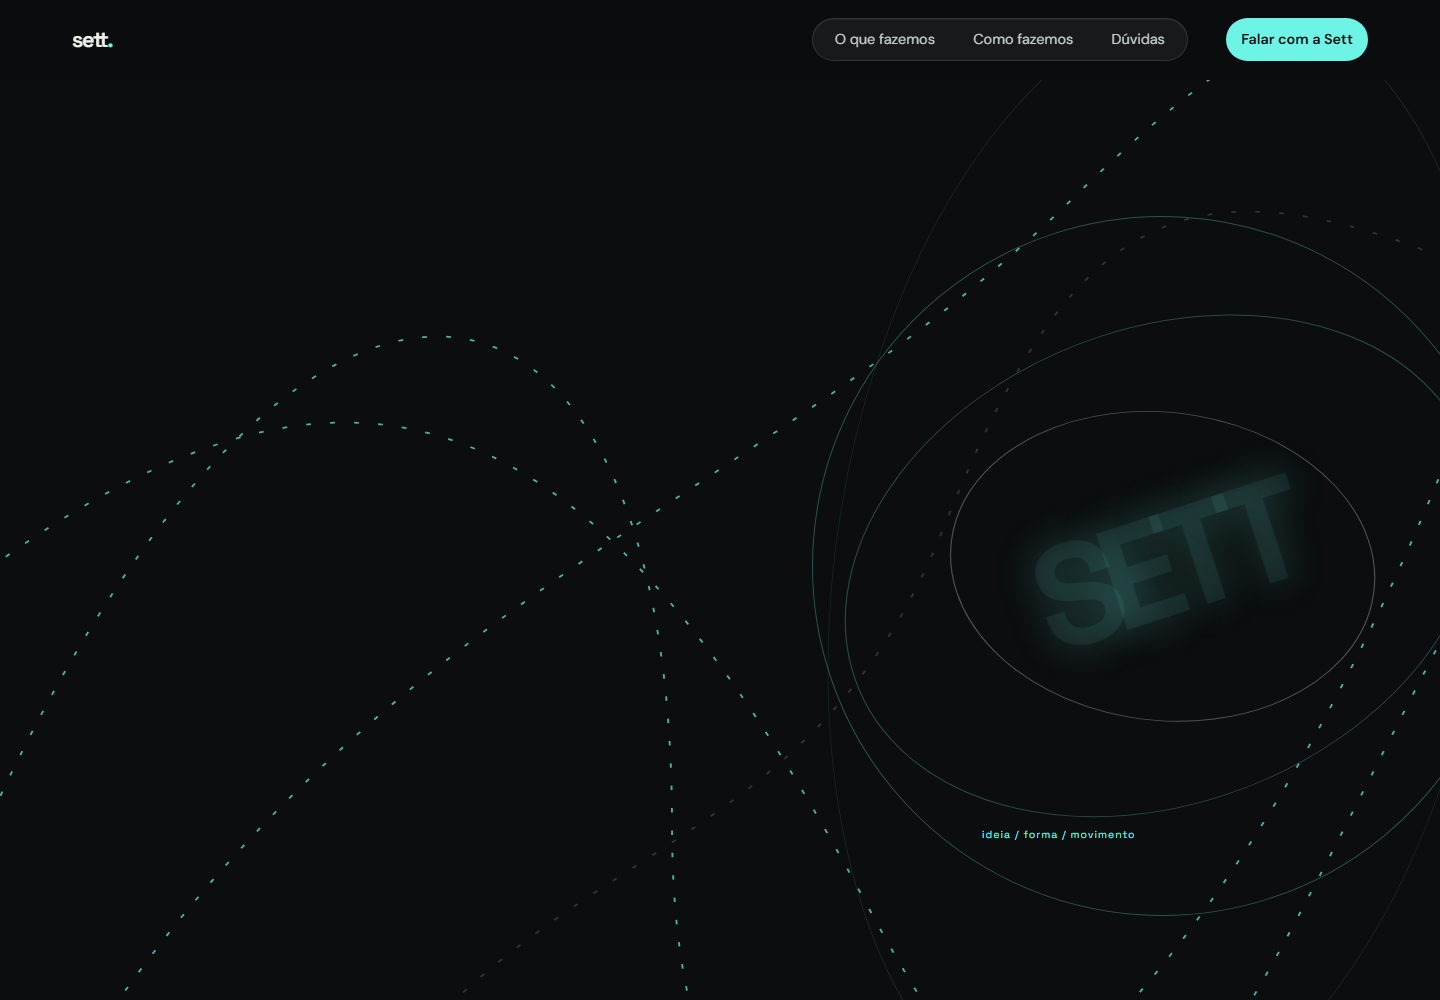
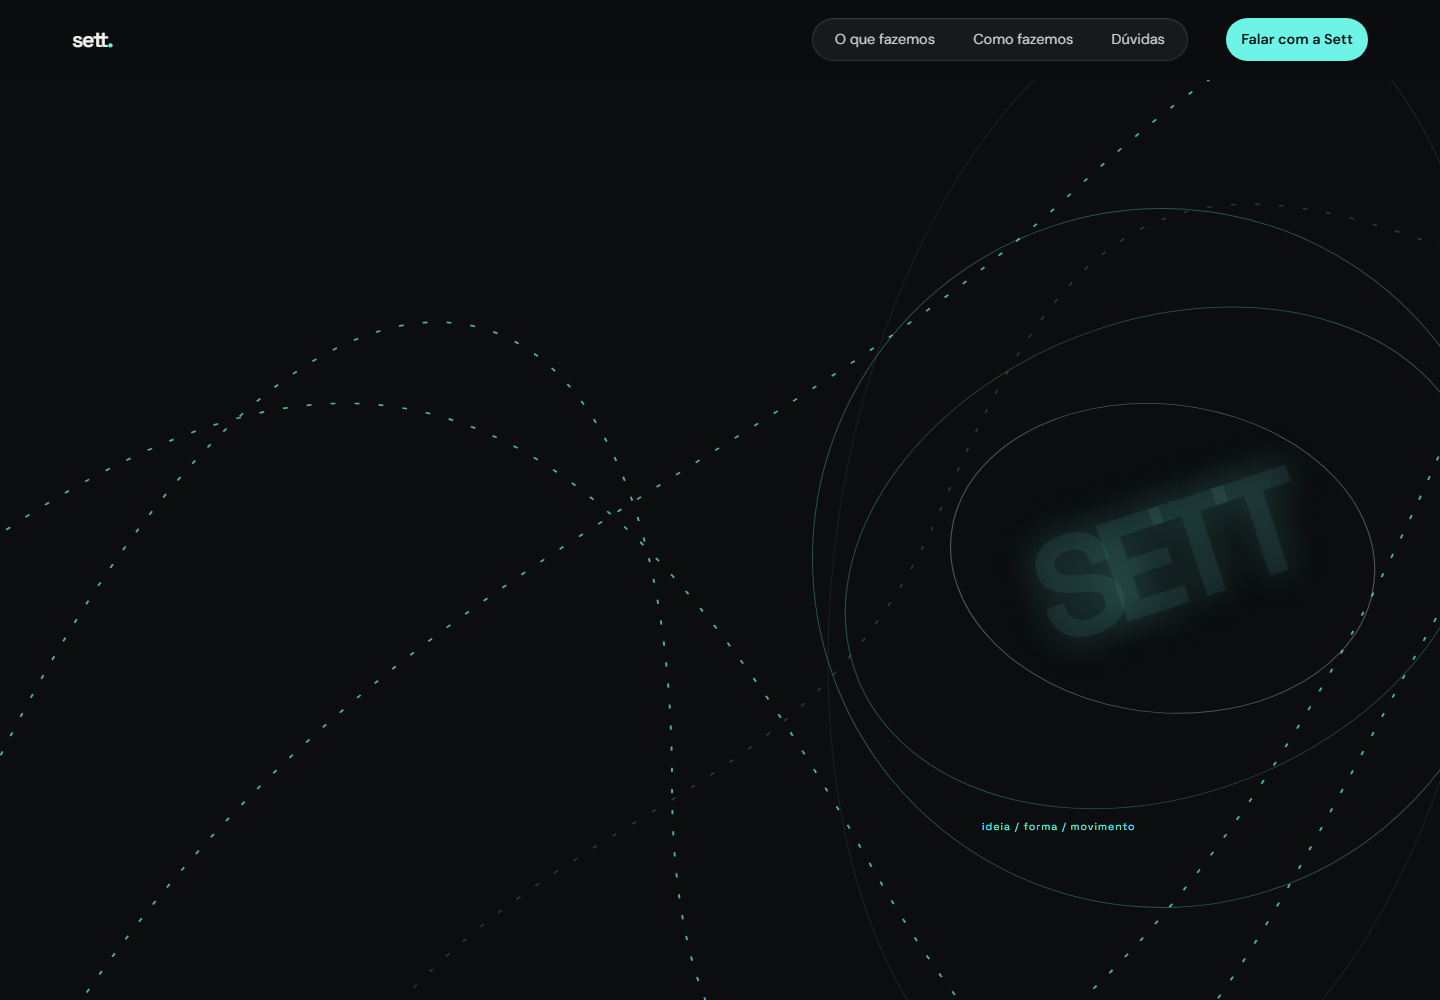
Add files via upload

Changed region(s): [[0.6875, 0.806, 0.7812, 0.837], [0.5938, 0.713, 0.625, 0.744], [0.5625, 0.651, 0.5938, 0.682]]

diff --git a/styles.css b/styles.css
@@ -1,3 +1,3 @@
 @import url('https://fonts.googleapis.com/css2?family=DM+Sans:wght@400;500;600&family=Space+Grotesk:wght@400;500;600;700&display=swap');
-:root{--ink:#0b0d0e;--paper:#f0f2ed;--cyan:#6ef4e7;--deep:#162d38;--muted:#899391;--line:rgba(240,242,237,.17);--display:'Space Grotesk',sans-serif;--body:'DM Sans',sans-serif}*{box-sizing:border-box}html{scroll-behavior:smooth}body{margin:0;background:var(--ink);color:var(--paper);font-family:var(--body);font-size:16px;line-height:1.5}a{color:inherit;text-decoration:none}button{font:inherit}::selection{background:var(--cyan);color:var(--ink)}.site-header{height:80px;padding:0 5vw;display:flex;align-items:center;justify-content:space-between;border-bottom:1px solid transparent;position:sticky;top:0;z-index:5;background:rgba(11,13,14,.62);backdrop-filter:blur(12px);transition:background .35s,border-color .35s,box-shadow .35s}.site-header.is-scrolled{background:rgba(11,13,14,.9);border-color:var(--line);box-shadow:0 12px 35px rgba(0,0,0,.22)}.brand{display:flex;align-items:center;gap:10px;font:600 1.35rem var(--display);letter-spacing:-.06em}.brand-mark{width:28px;height:28px;border:1px solid var(--cyan);border-radius:50%;display:grid;place-items:center;color:var(--cyan);font-size:.8rem;letter-spacing:0}.brand-dot{color:var(--cyan)}.desktop-nav{display:flex;gap:2.4rem;margin-left:auto;margin-right:2.4rem;padding:10px 22px;border:1px solid rgba(240,242,237,.12);border-radius:999px;background:rgba(240,242,237,.06);color:#c7cfcb;font-size:.9rem;box-shadow:inset 0 1px rgba(255,255,255,.06);transition:background .35s,border-color .35s}.desktop-nav:hover{background:rgba(240,242,237,.1);border-color:rgba(110,244,231,.32)}.desktop-nav a,.site-footer a{transition:color .25s}.desktop-nav a:hover,.site-footer a:hover{color:var(--cyan)}.button{display:inline-flex;align-items:center;gap:1rem;background:var(--cyan);color:var(--ink);padding:15px 20px;border-radius:999px;font-weight:600;font-size:.9rem;transition:transform .25s,background .25s}.button:hover{transform:translateY(-3px);background:#b4fff5}.button span{font-size:1.2rem}.button-small{padding:11px 15px}.menu-toggle,.mobile-nav{display:none}.section-grid{display:grid;grid-template-columns:minmax(120px,20%) 1fr;gap:4vw;padding:clamp(100px,12vw,190px) 5vw;position:relative}.hero{min-height:calc(100vh - 80px);padding-top:clamp(90px,11vw,170px);overflow:hidden;display:block}.hero-copy{position:relative;z-index:1;max-width:780px}.eyebrow,.section-index{font:500 .72rem var(--display);letter-spacing:.08em;color:var(--cyan)}.hero-title{font:600 clamp(4.4rem,11vw,10rem) var(--display);line-height:.84;letter-spacing:-.1em;margin:34px 0 38px;max-width:900px}.hero-title em,.section-title em,.proof-panel em,.cta-title em{font-style:normal;color:var(--cyan)}.hero-lead{font-size:clamp(1.1rem,1.7vw,1.4rem);max-width:470px;color:#c4ceca;line-height:1.4}.hero-actions{display:flex;align-items:center;gap:2rem;margin-top:38px}.text-link{color:var(--paper);border-bottom:1px solid var(--cyan);padding-bottom:5px;font-size:.9rem;display:inline-flex;gap:1rem}.hero-orbit{position:absolute;right:-5vw;top:13%;width:min(50vw,700px);height:min(50vw,700px);border:1px solid rgba(110,244,231,.3);border-radius:50%;transform:rotate(-18deg)}.orbit-ring{position:absolute;border:1px solid rgba(110,244,231,.27);border-radius:50%;inset:10%;transform:rotate(37deg) skewX(-18deg)}.ring-two{inset:24%;transform:rotate(-25deg) skewY(18deg);border-color:rgba(240,242,237,.3)}.ring-three{inset:-12%;transform:rotate(80deg) skewX(30deg);border-color:rgba(110,244,231,.12)}.orbit-word{font:700 clamp(4rem,12vw,9rem) var(--display);letter-spacing:-.13em;position:absolute;inset:0;display:grid;place-items:center;color:rgba(110,244,231,.08);text-shadow:0 0 40px rgba(110,244,231,.25)}.orbit-label{position:absolute;bottom:17%;left:13%;font:.65rem var(--display);color:var(--cyan);letter-spacing:.1em;transform:rotate(18deg)}.hero-paths{position:absolute;inset:0;opacity:.7;pointer-events:none}.hero-paths svg{width:100%;height:100%}.hero-paths path{fill:none;stroke:var(--cyan);stroke-width:1.2;stroke-dasharray:3 12;animation:drift 18s linear infinite}.hero-paths .path-faint{stroke:#b5cbc7;opacity:.3;animation-direction:reverse;animation-duration:24s}.hero-foot{position:absolute;bottom:35px;left:5vw;right:5vw;display:flex;align-items:center;gap:1rem;font:500 .7rem var(--display);color:var(--muted)}.hero-foot .line{width:80px;height:1px;background:var(--cyan);margin-left:1rem}.hero-foot span:last-child{margin-left:auto}.trust{background:var(--paper);color:var(--ink)}.trust .section-index,.trust .section-text{color:#4e5b57}.section-title{font:600 clamp(2.8rem,6.5vw,6.5rem) var(--display);line-height:.94;letter-spacing:-.09em;margin:0}.section-title span{color:var(--cyan)}.trust .section-title span{color:#188f86}.section-text{max-width:490px;font-size:1.1rem;line-height:1.45;margin-top:36px}.trust-stamp{align-self:end;border:1px solid rgba(11,13,14,.3);padding:20px;display:flex;flex-direction:column;gap:25px;max-width:190px;font-size:.7rem}.trust-stamp strong{font:600 1.4rem/1 var(--display);letter-spacing:-.06em}.tension{padding-bottom:150px}.tension-quote{max-width:900px}.solution{display:flex;gap:2rem;margin-top:100px;padding-top:28px;border-top:1px solid var(--line);max-width:600px}.solution-number{color:var(--cyan);font-size:2rem}.solution h3{font:500 1.4rem var(--display);margin:0 0 10px}.solution p{color:#abb8b3;max-width:420px}.services{background:var(--deep)}.service-list{margin-top:80px;border-top:1px solid rgba(240,242,237,.28)}.service{display:grid;grid-template-columns:70px 1fr 1.2fr 30px;align-items:center;gap:20px;padding:26px 0;border-bottom:1px solid rgba(240,242,237,.28);transition:padding .3s,color .3s}.service:hover{padding-left:14px;color:var(--cyan)}.service-tag{font:500 .75rem var(--display);color:var(--cyan)}.service h3{font:500 clamp(1.7rem,3vw,3rem) var(--display);letter-spacing:-.07em;margin:0}.service p{color:#b0beb9;max-width:310px;margin:0;font-size:.95rem}.service-symbol{font-size:2rem;font-weight:300}.process-track{display:grid;grid-template-columns:repeat(3,1fr);gap:0;margin-top:90px;border-top:1px solid var(--line)}.process-step{padding:25px 25px 0 0;border-right:1px solid var(--line);min-height:190px}.process-step:not(:first-child){padding-left:25px}.process-step:last-child{border:0}.process-step span{color:var(--cyan);font:500 .8rem var(--display)}.process-step h3{font:500 2rem var(--display);letter-spacing:-.06em;margin:35px 0 10px}.process-step p{color:#aebbb7;max-width:230px;font-size:.92rem}.proof{background:var(--cyan);color:var(--ink)}.proof .section-index{color:var(--ink)}.proof-panel{max-width:800px}.proof-panel .eyebrow{color:var(--ink)}.proof-panel h2{font:600 clamp(3rem,7vw,7rem)/.9 var(--display);letter-spacing:-.1em;margin:30px 0}.proof-panel em{color:var(--ink);text-decoration:underline;text-decoration-thickness:2px;text-underline-offset:8px}.proof-panel p{max-width:480px}.proof-panel .text-link{color:var(--ink);border-color:var(--ink);margin-top:20px}.faq-list{margin-top:75px;border-top:1px solid var(--line);max-width:780px}.faq-list details{border-bottom:1px solid var(--line);padding:24px 0}.faq-list summary{cursor:pointer;list-style:none;font:500 1.2rem var(--display);display:flex;justify-content:space-between;gap:2rem}.faq-list summary::-webkit-details-marker{display:none}.faq-list summary span{color:var(--cyan);font-size:1.6rem;font-weight:300}.faq-list details[open] summary span{transform:rotate(45deg)}.faq-list p{max-width:550px;color:#afbbb7;margin:18px 0 0}.final-cta{background:var(--deep);min-height:75vh;overflow:hidden}.cta-noise{position:absolute;width:60vw;height:60vw;border:1px solid rgba(110,244,231,.2);border-radius:50%;right:-20vw;bottom:-30vw;box-shadow:0 0 0 50px rgba(110,244,231,.03),0 0 0 100px rgba(110,244,231,.03),0 0 0 150px rgba(110,244,231,.03)}.cta-title{font:600 clamp(4rem,10vw,10rem)/.85 var(--display);letter-spacing:-.11em;margin:0}.cta-text{font-size:1.1rem;color:#b9c5c1;margin:38px 0}.button-light{background:var(--paper)}.email-note{font-size:.68rem;color:#84958f;margin-top:22px}.site-footer{display:grid;grid-template-columns:2fr 2fr 1fr 1fr;gap:2rem;padding:45px 5vw;color:#aebbb7;border-top:1px solid var(--line);font-size:.85rem}.site-footer .brand{color:var(--paper);align-self:start}.site-footer div{display:flex;flex-direction:column;gap:8px}.site-footer small{align-self:end;color:#71807c}.reveal{opacity:0;transform:translateY(24px);transition:opacity .8s ease,transform .8s cubic-bezier(.2,.8,.2,1)}.reveal.is-visible{opacity:1;transform:none}@keyframes drift{to{stroke-dashoffset:-180}}.sr-only{position:absolute;width:1px;height:1px;padding:0;margin:-1px;overflow:hidden;clip:rect(0,0,0,0);white-space:nowrap;border:0}:focus-visible{outline:2px solid var(--cyan);outline-offset:5px}@media(max-width:800px){.site-header{height:68px;padding:0 5vw}.desktop-nav,.site-header>.button{display:none}.menu-toggle{display:grid;gap:4px;background:none;border:0;padding:8px;cursor:pointer}.menu-toggle span:not(.sr-only){width:24px;height:1px;background:var(--paper);display:block}.mobile-nav{position:absolute;top:68px;left:0;right:0;background:var(--ink);padding:22px 5vw;display:none;flex-direction:column;gap:20px;border-bottom:1px solid var(--line)}.mobile-nav.is-open{display:flex}.section-grid{grid-template-columns:1fr;gap:32px;padding:90px 5vw}.section-index{order:-1}.hero{min-height:850px;padding-top:100px}.hero-title{font-size:clamp(4rem,18vw,7rem);margin-top:28px}.hero-orbit{right:-35vw;top:41%;width:100vw;height:100vw}.hero-foot{bottom:25px;gap:.6rem;font-size:.6rem}.hero-foot .line{width:35px;margin-left:.4rem}.hero-foot span:last-child{display:none}.trust-stamp{margin-top:25px}.solution{margin-top:65px}.service-list{margin-top:55px}.service{grid-template-columns:35px 1fr 25px;gap:10px}.service p{grid-column:2/4}.process-track{grid-template-columns:1fr;margin-top:55px}.process-step,.process-step:not(:first-child){border-right:0;border-bottom:1px solid var(--line);padding:22px 0;min-height:0}.process-step h3{margin:18px 0 6px}.proof-panel h2{font-size:clamp(3.5rem,16vw,6rem)}.final-cta{min-height:680px}.site-footer{grid-template-columns:1fr 1fr;padding:38px 5vw}.site-footer small{grid-column:1/-1;margin-top:25px}}
+:root{--ink:#0b0d0e;--paper:#f0f2ed;--cyan:#6ef4e7;--deep:#162d38;--muted:#899391;--line:rgba(240,242,237,.17);--display:'Space Grotesk',sans-serif;--body:'DM Sans',sans-serif}*{box-sizing:border-box}html{scroll-behavior:smooth}body{margin:0;background:var(--ink);color:var(--paper);font-family:var(--body);font-size:16px;line-height:1.5}a{color:inherit;text-decoration:none}button{font:inherit}::selection{background:var(--cyan);color:var(--ink)}.site-header{height:80px;padding:0 5vw;display:flex;align-items:center;justify-content:space-between;border-bottom:1px solid transparent;position:sticky;top:0;z-index:5;background:rgba(11,13,14,.62);backdrop-filter:blur(12px);transition:background .35s,border-color .35s,box-shadow .35s}.site-header.is-scrolled{background:rgba(11,13,14,.9);border-color:var(--line);box-shadow:0 12px 35px rgba(0,0,0,.22)}.brand{display:flex;align-items:center;gap:10px;font:600 1.35rem var(--display);letter-spacing:-.06em}.brand-mark{width:28px;height:28px;border:1px solid var(--cyan);border-radius:50%;display:grid;place-items:center;color:var(--cyan);font-size:.8rem;letter-spacing:0}.brand-dot{color:var(--cyan)}.desktop-nav{display:flex;gap:2.4rem;margin-left:auto;margin-right:2.4rem;padding:10px 22px;border:1px solid rgba(240,242,237,.12);border-radius:999px;background:rgba(240,242,237,.06);color:#c7cfcb;font-size:.9rem;box-shadow:inset 0 1px rgba(255,255,255,.06);transition:background .35s,border-color .35s}.desktop-nav:hover{background:rgba(240,242,237,.1);border-color:rgba(110,244,231,.32)}.desktop-nav a,.site-footer a{transition:color .25s}.desktop-nav a:hover,.site-footer a:hover{color:var(--cyan)}.button{display:inline-flex;align-items:center;gap:1rem;background:var(--cyan);color:var(--ink);padding:15px 20px;border-radius:999px;font-weight:600;font-size:.9rem;transition:transform .25s,background .25s}.button:hover{transform:translateY(-3px);background:#b4fff5}.button span{font-size:1.2rem}.button-small{padding:11px 15px}.menu-toggle,.mobile-nav{display:none}.section-grid{display:grid;grid-template-columns:minmax(120px,20%) 1fr;gap:4vw;padding:clamp(100px,12vw,190px) 5vw;position:relative}.hero{min-height:calc(100vh - 80px);padding-top:clamp(52px,7vw,100px);overflow:hidden;display:block}.hero-copy{position:relative;z-index:1;max-width:780px}.eyebrow,.section-index{font:500 .72rem var(--display);letter-spacing:.08em;color:var(--cyan)}.hero-title{font:600 clamp(4.4rem,11vw,10rem) var(--display);line-height:.84;letter-spacing:-.1em;margin:34px 0 38px;max-width:900px}.hero-title em,.section-title em,.proof-panel em,.cta-title em{font-style:normal;color:var(--cyan)}.hero-lead{font-size:clamp(1.1rem,1.7vw,1.4rem);max-width:470px;color:#c4ceca;line-height:1.4}.hero-actions{display:flex;align-items:center;gap:2rem;margin-top:38px}.text-link{color:var(--paper);border-bottom:1px solid var(--cyan);padding-bottom:5px;font-size:.9rem;display:inline-flex;gap:1rem}.hero-orbit{position:absolute;right:-5vw;top:13%;width:min(50vw,700px);height:min(50vw,700px);border:1px solid rgba(110,244,231,.3);border-radius:50%;transform:rotate(-18deg)}.orbit-ring{position:absolute;border:1px solid rgba(110,244,231,.27);border-radius:50%;inset:10%;transform:rotate(37deg) skewX(-18deg)}.ring-two{inset:24%;transform:rotate(-25deg) skewY(18deg);border-color:rgba(240,242,237,.3)}.ring-three{inset:-12%;transform:rotate(80deg) skewX(30deg);border-color:rgba(110,244,231,.12)}.orbit-word{font:700 clamp(4rem,12vw,9rem) var(--display);letter-spacing:-.13em;position:absolute;inset:0;display:grid;place-items:center;color:rgba(110,244,231,.08);text-shadow:0 0 40px rgba(110,244,231,.25)}.orbit-label{position:absolute;bottom:17%;left:13%;font:.65rem var(--display);color:var(--cyan);letter-spacing:.1em;transform:rotate(18deg)}.hero-paths{position:absolute;inset:0;opacity:.7;pointer-events:none}.hero-paths svg{width:100%;height:100%}.hero-paths path{fill:none;stroke:var(--cyan);stroke-width:1.2;stroke-dasharray:3 12;animation:drift 18s linear infinite}.hero-paths .path-faint{stroke:#b5cbc7;opacity:.3;animation-direction:reverse;animation-duration:24s}.hero-foot{position:absolute;bottom:35px;left:5vw;right:5vw;display:flex;align-items:center;gap:1rem;font:500 .7rem var(--display);color:var(--muted)}.hero-foot .line{width:80px;height:1px;background:var(--cyan);margin-left:1rem}.hero-foot span:last-child{margin-left:auto}.trust{background:var(--paper);color:var(--ink)}.trust .section-index,.trust .section-text{color:#4e5b57}.section-title{font:600 clamp(2.8rem,6.5vw,6.5rem) var(--display);line-height:.94;letter-spacing:-.09em;margin:0}.section-title span{color:var(--cyan)}.trust .section-title span{color:#188f86}.section-text{max-width:490px;font-size:1.1rem;line-height:1.45;margin-top:36px}.trust-stamp{align-self:end;border:1px solid rgba(11,13,14,.3);padding:20px;display:flex;flex-direction:column;gap:25px;max-width:190px;font-size:.7rem}.trust-stamp strong{font:600 1.4rem/1 var(--display);letter-spacing:-.06em}.tension{padding-bottom:150px}.tension-quote{max-width:900px}.solution{display:flex;gap:2rem;margin-top:100px;padding-top:28px;border-top:1px solid var(--line);max-width:600px}.solution-number{color:var(--cyan);font-size:2rem}.solution h3{font:500 1.4rem var(--display);margin:0 0 10px}.solution p{color:#abb8b3;max-width:420px}.services{background:var(--deep)}.service-list{margin-top:80px;border-top:1px solid rgba(240,242,237,.28)}.service{display:grid;grid-template-columns:70px 1fr 1.2fr 30px;align-items:center;gap:20px;padding:26px 0;border-bottom:1px solid rgba(240,242,237,.28);transition:padding .3s,color .3s}.service:hover{padding-left:14px;color:var(--cyan)}.service-tag{font:500 .75rem var(--display);color:var(--cyan)}.service h3{font:500 clamp(1.7rem,3vw,3rem) var(--display);letter-spacing:-.07em;margin:0}.service p{color:#b0beb9;max-width:310px;margin:0;font-size:.95rem}.service-symbol{font-size:2rem;font-weight:300}.process-track{display:grid;grid-template-columns:repeat(3,1fr);gap:0;margin-top:90px;border-top:1px solid var(--line)}.process-step{padding:25px 25px 0 0;border-right:1px solid var(--line);min-height:190px}.process-step:not(:first-child){padding-left:25px}.process-step:last-child{border:0}.process-step span{color:var(--cyan);font:500 .8rem var(--display)}.process-step h3{font:500 2rem var(--display);letter-spacing:-.06em;margin:35px 0 10px}.process-step p{color:#aebbb7;max-width:230px;font-size:.92rem}.proof{background:var(--cyan);color:var(--ink)}.proof .section-index{color:var(--ink)}.proof-panel{max-width:800px}.proof-panel .eyebrow{color:var(--ink)}.proof-panel h2{font:600 clamp(3rem,7vw,7rem)/.9 var(--display);letter-spacing:-.1em;margin:30px 0}.proof-panel em{color:var(--ink);text-decoration:underline;text-decoration-thickness:2px;text-underline-offset:8px}.proof-panel p{max-width:480px}.proof-panel .text-link{color:var(--ink);border-color:var(--ink);margin-top:20px}.faq-list{margin-top:75px;border-top:1px solid var(--line);max-width:780px}.faq-list details{border-bottom:1px solid var(--line);padding:24px 0}.faq-list summary{cursor:pointer;list-style:none;font:500 1.2rem var(--display);display:flex;justify-content:space-between;gap:2rem}.faq-list summary::-webkit-details-marker{display:none}.faq-list summary span{color:var(--cyan);font-size:1.6rem;font-weight:300}.faq-list details[open] summary span{transform:rotate(45deg)}.faq-list p{max-width:550px;color:#afbbb7;margin:18px 0 0}.final-cta{background:var(--deep);min-height:75vh;overflow:hidden}.cta-noise{position:absolute;width:60vw;height:60vw;border:1px solid rgba(110,244,231,.2);border-radius:50%;right:-20vw;bottom:-30vw;box-shadow:0 0 0 50px rgba(110,244,231,.03),0 0 0 100px rgba(110,244,231,.03),0 0 0 150px rgba(110,244,231,.03)}.cta-title{font:600 clamp(4rem,10vw,10rem)/.85 var(--display);letter-spacing:-.11em;margin:0}.cta-text{font-size:1.1rem;color:#b9c5c1;margin:38px 0}.button-light{background:var(--paper)}.email-note{font-size:.68rem;color:#84958f;margin-top:22px}.site-footer{display:grid;grid-template-columns:2fr 2fr 1fr 1fr;gap:2rem;padding:45px 5vw;color:#aebbb7;border-top:1px solid var(--line);font-size:.85rem}.site-footer .brand{color:var(--paper);align-self:start}.site-footer div{display:flex;flex-direction:column;gap:8px}.site-footer small{align-self:end;color:#71807c}.reveal{opacity:0;transform:translateY(24px);transition:opacity .8s ease,transform .8s cubic-bezier(.2,.8,.2,1)}.reveal.is-visible{opacity:1;transform:none}@keyframes drift{to{stroke-dashoffset:-180}}.sr-only{position:absolute;width:1px;height:1px;padding:0;margin:-1px;overflow:hidden;clip:rect(0,0,0,0);white-space:nowrap;border:0}:focus-visible{outline:2px solid var(--cyan);outline-offset:5px}@media(max-width:800px){.hero .reveal{opacity:1;transform:none}.site-header{height:68px;padding:0 20px}.desktop-nav,.site-header>.button{display:none}.menu-toggle{display:grid;gap:4px;background:none;border:0;padding:8px;cursor:pointer}.menu-toggle span:not(.sr-only){width:24px;height:1px;background:var(--paper);display:block}.mobile-nav{position:absolute;top:68px;left:12px;right:12px;background:rgba(11,13,14,.97);padding:24px 22px;display:none;flex-direction:column;gap:20px;border:1px solid var(--line);border-radius:20px;box-shadow:0 20px 50px rgba(0,0,0,.35)}.mobile-nav.is-open{display:flex}.section-grid{grid-template-columns:1fr;gap:28px;padding:82px 20px}.section-index{order:-1}.hero{min-height:760px;padding:86px 20px 120px}.hero-copy{z-index:2}.hero-title{font-size:clamp(3.15rem,13.2vw,5rem);letter-spacing:-.1em;margin:25px 0 28px;max-width:100%;overflow-wrap:break-word}.hero-lead{font-size:1.05rem;max-width:330px}.hero-actions{align-items:flex-start;flex-direction:column;gap:20px;margin-top:30px}.hero-orbit{right:-42vw;top:43%;width:112vw;height:112vw;opacity:.82}.hero-foot{bottom:22px;left:20px;right:20px;gap:.6rem;font-size:.6rem}.hero-foot .line{width:35px;margin-left:.4rem}.hero-foot span:last-child{display:none}.trust-stamp{margin-top:22px}.solution{margin-top:58px;gap:1rem}.solution p{font-size:.95rem}.service-list{margin-top:50px}.service{grid-template-columns:35px 1fr 25px;gap:10px;padding:22px 0}.service h3{font-size:1.7rem}.service p{grid-column:2/4;font-size:.9rem;margin-top:3px}.process-track{grid-template-columns:1fr;margin-top:50px}.process-step,.process-step:not(:first-child){border-right:0;border-bottom:1px solid var(--line);padding:22px 0;min-height:0}.process-step h3{margin:18px 0 6px}.proof-panel h2{font-size:clamp(3.35rem,15vw,6rem)}.final-cta{min-height:650px}.cta-title{font-size:clamp(3.7rem,16vw,6rem)}.site-footer{grid-template-columns:1fr 1fr;padding:38px 20px}.site-footer small{grid-column:1/-1;margin-top:25px}}
 @media(prefers-reduced-motion:reduce){html{scroll-behavior:auto}.hero-paths path{animation:none}.reveal{opacity:1;transform:none;transition:none}.button,.service{transition:none}}
